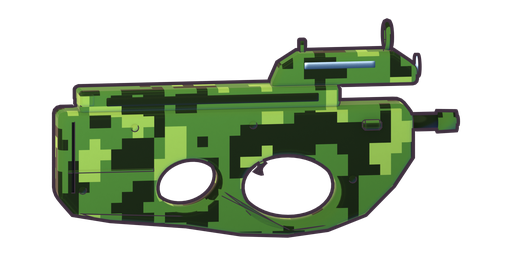
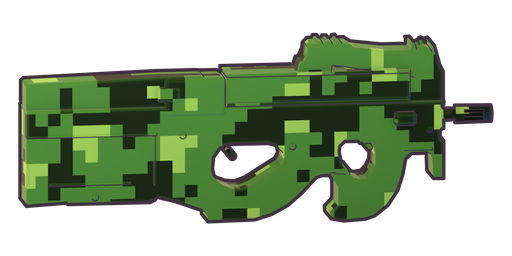
P90 léger fait maison : contours et dimensions relevés sur le modèle Sketchfab (gabarit seulement, non livré), finition marine usée dorée

diff --git a/art/blender/weapons_hd_p90.py b/art/blender/weapons_hd_p90.py
@@ -1,11 +1,13 @@
-"""FN P90 HD (Épique) d'après l'image de référence de Victor (carte d'arsenal « P90 · Épique ») :
-- bloc compact et anguleux, dessus plat et continu, face avant verticale, canon court qui sort haut ;
-- carcasse inférieure épaisse percée de deux ouvertures ovales (booléens) : trou du pouce à l'arrière,
-  grand pontet à l'avant, séparés par la poignée ;
-- chargeur intégré au dessus : bande d'acier sombre à fenêtre claire ;
-- viseur surélevé à l'avant du dessus, anneau de visée arrière ;
-- bleu marine peint, usure dorée sur les arêtes et éclats d'or (finition de l'Épique).
-Longueur 1,7 unité comme l'ancien modèle.
+"""FN P90 HD (Épique), modèle léger fait maison.
+
+Contours et dimensions relevés sur « P90 Submachine Gun Low Poly Game Ready » (JaNaZa_ZaIb, Sketchfab,
+licence Standard) : silhouette de profil projetée, retournée (canon vers +X) et mise à 1,7 unité,
+puis tracée et simplifiée (constantes ci-dessous). Le modèle Sketchfab ne sert QUE de gabarit : il
+n'est ni importé ni livré avec le jeu.
+Construction : carcasse = extrusion du contour extérieur, percée (booléens) du trou du pouce, du
+pontet et de la fenêtre du viseur ; chargeur, viseur, levier d'armement, détente, canon et
+cache-flamme rapportés. Finition d'après la carte d'arsenal de Victor : bleu marine peint, usure
+dorée sur les arêtes et éclats d'or.
 """
 from __future__ import annotations
 
@@ -18,66 +20,115 @@ import rdm_common as C  # noqa: E402
 import weapon_paint as WP  # noqa: E402
 from weapons_hd_kit import box, cyl_x, cyl_y, prism, rounded  # noqa: E402
 
-W = 0.19   # largeur de la carcasse
+W = 0.17   # largeur de la carcasse
+
+# Contours (x, z) en unités, sens horaire ; face avant coupée en x = 0.672 (le canon est rapporté).
+OUTER = [(0.214, 0.331), (0.229, 0.331), (0.233, 0.322), (0.245, 0.322), (0.248, 0.329), (0.264, 0.329),
+    (0.267, 0.321), (0.280, 0.321), (0.283, 0.329), (0.296, 0.331), (0.303, 0.321), (0.327, 0.321),
+    (0.351, 0.305), (0.462, 0.291), (0.553, 0.291), (0.554, 0.310), (0.551, 0.316), (0.568, 0.317),
+    (0.575, 0.291), (0.582, 0.298), (0.601, 0.306), (0.624, 0.296), (0.630, 0.284), (0.625, 0.309),
+    (0.633, 0.312), (0.640, 0.305), (0.659, 0.236), (0.672, 0.209), (0.672, 0.090), (0.666, 0.089),
+    (0.666, 0.077), (0.672, 0.076), (0.672, 0.003), (0.667, 0.003), (0.659, -0.007), (0.659, -0.039),
+    (0.672, -0.042), (0.672, -0.181), (0.634, -0.180), (0.631, -0.111), (0.623, -0.089),
+    (0.618, -0.086), (0.554, -0.087), (0.533, -0.106), (0.523, -0.162), (0.504, -0.220),
+    (0.468, -0.275), (0.420, -0.312), (0.387, -0.323), (0.308, -0.328), (0.261, -0.319),
+    (0.260, -0.301), (0.287, -0.271), (0.287, -0.205), (0.259, -0.158), (0.312, -0.156),
+    (0.273, -0.155), (0.275, -0.149), (0.258, -0.151), (0.256, -0.160), (0.225, -0.160),
+    (0.206, -0.167), (0.153, -0.223), (0.103, -0.266), (0.043, -0.298), (-0.018, -0.316),
+    (-0.189, -0.319), (-0.191, -0.297), (-0.201, -0.281), (-0.307, -0.242), (-0.373, -0.225),
+    (-0.381, -0.234), (-0.399, -0.243), (-0.701, -0.243), (-0.702, -0.238), (-0.711, -0.238),
+    (-0.851, -0.246), (-0.851, 0.190), (-0.841, 0.199), (-0.356, 0.213), (-0.208, 0.213),
+    (-0.202, 0.212), (-0.201, 0.180), (0.131, 0.181), (0.150, 0.250), (0.152, 0.254), (0.162, 0.256),
+    (0.175, 0.284), (0.178, 0.306), (0.195, 0.322), (0.210, 0.322), (0.213, 0.330)]
+THUMBHOLE = [(-0.111, -0.037), (0.033, -0.037), (0.059, -0.045), (0.084, -0.071), (0.089, -0.099),
+    (0.080, -0.119), (-0.032, -0.188), (-0.069, -0.201), (-0.103, -0.198), (-0.135, -0.186),
+    (-0.165, -0.157), (-0.172, -0.124), (-0.168, -0.083), (-0.144, -0.049), (-0.121, -0.038),
+    (-0.112, -0.038)]
+GUARD_HOLE = [(0.310, -0.037), (0.364, -0.037), (0.365, -0.045), (0.406, -0.045), (0.408, -0.048),
+    (0.420, -0.064), (0.423, -0.089), (0.422, -0.129), (0.409, -0.156), (0.392, -0.173),
+    (0.368, -0.177), (0.345, -0.171), (0.329, -0.156), (0.328, -0.140), (0.316, -0.139),
+    (0.300, -0.121), (0.290, -0.074), (0.293, -0.053), (0.309, -0.038)]
+SIGHT_WINDOW = [(0.265, 0.241), (0.296, 0.238), (0.567, 0.191), (0.567, 0.182), (0.255, 0.182), (0.266, 0.233),
+    (0.265, 0.240)]
 
 
-def _cut(target, name, x, z, rx, rz, rot=0.0):
-    """Perce une ouverture ovale de part en part (cylindre d'axe Y, booléen DIFFERENCE)."""
-    bm = C.bm_cyl(48, 1.0, 1.0, W * 3.0)
-    C.bm_xform(bm, rot=(math.pi / 2, 0, 0))
-    C.bm_xform(bm, scale=(rx, 1.0, rz))
-    C.bm_xform(bm, rot=(0, rot, 0), loc=(x, 0, z))
-    cutter = C.mesh_obj(name, bm, target.data.materials[0])
+def _cw(pts):
+    """Sens horaire (attendu par prism) : aire signée négative."""
+    a = sum(pts[i][0] * pts[(i + 1) % len(pts)][1] - pts[(i + 1) % len(pts)][0] * pts[i][1]
+            for i in range(len(pts)))
+    return list(pts) if a < 0 else list(reversed(pts))
+
+
+def _clip_z(pts, z0, keep_above):
+    """Polygone coupé par la droite z = z0 (Sutherland-Hodgman) : partie au-dessus ou en dessous."""
+    def inside(p):
+        return p[1] >= z0 if keep_above else p[1] <= z0
+    out = []
+    for i in range(len(pts)):
+        a, b = pts[i], pts[(i + 1) % len(pts)]
+        if inside(a):
+            out.append(a)
+        if inside(a) != inside(b):
+            t = (z0 - a[1]) / (b[1] - a[1])
+            out.append((a[0] + t * (b[0] - a[0]), z0))
+    return out
+
+
+def _cut(target, name, pts):
+    """Perce une ouverture (contour pts) de part en part : prisme et booléen DIFFERENCE."""
+    cutter = prism(name, _cw(pts), W * 3.0, target.data.materials[0])
     cutter.hide_render = True
     cutter.hide_viewport = True
     md = target.modifiers.new(name, "BOOLEAN")
     md.operation = "DIFFERENCE"
     md.solver = "EXACT"
     md.object = cutter
-    return cutter
 
 
 def smg_p90(m):
-    navy = WP.paint("p90_navy", "#1d2540", "#05070f", "#45547c", wear=0.75, edge="#e0ae4c", grain=0.09,
-                    grain_scale=90.0, alt="#c9973e", alt_scale=6.0, alt_cut=0.6)
-    navy_dark = WP.paint("p90_navy_dark", "#151a2c", "#040509", "#34405e", wear=0.55, edge="#d6a444", grain=0.08)
+    navy = WP.paint("p90_navy", "#1b2339", "#04060d", "#4a5e92", wear=0.7, edge="#d9a648", grain=0.1,
+                    grain_scale=90.0, alt="#c08f3a", alt_scale=5.0, alt_cut=0.64, rim=0.22)
+    navy_dark = WP.paint("p90_navy_dark", "#141a2c", "#04050a", "#3a4668", wear=0.5, edge="#d6a444", grain=0.08)
     gold = m["gold"]
-    # Carcasse : dessus plat, plaque de couche verticale, dessous qui descend vers le pontet puis remonte
-    # vers la face avant.
-    body = prism("body", [(-0.72, 0.25), (0.74, 0.25), (0.78, 0.21), (0.78, 0.02), (0.70, -0.10), (0.58, -0.22),
-                          (0.42, -0.28), (0.25, -0.30), (0.05, -0.29), (-0.18, -0.25), (-0.50, -0.22),
-                          (-0.66, -0.19), (-0.72, -0.12)], W, navy)
-    # Trou du pouce (arrière) et grand pontet (avant), séparés par la poignée.
-    _cut(body, "thumbhole", -0.17, -0.07, 0.13, 0.10, rot=-0.25)
-    _cut(body, "guardHole", 0.26, -0.10, 0.20, 0.14, rot=0.12)
-    rounded(body, 0.03, 3)
-    # Filets dorés et rainure de plaque arrière.
-    box("goldLine", (0.36, W * 1.01, 0.012), (-0.50, 0, 0.0), gold, bevel=0.0)
-    box("buttLine", (0.012, W * 1.01, 0.30), (-0.66, 0, 0.06), m["bore"], bevel=0.0)
-    # Détente au fond du pontet.
-    C.mesh_obj("trigger", C.bm_tube([(0.13, 0, 0.05), (0.15, 0, 0.0), (0.135, 0, -0.04)], [0.016] * 3, seg=8), gold)
-    # Chargeur intégré au dessus : bande sombre, fenêtre claire (corps translucide), embouts.
-    rounded(box("mag", (1.10, W * 0.9, 0.09), (-0.08, 0, 0.29), navy_dark, bevel=0.0), 0.015, 2)
-    box("magWindow", (0.90, W * 0.92, 0.04), (-0.07, 0, 0.29), m["steel"], bevel=0.006)
-    box("magLatch", (0.06, W * 0.95, 0.05), (-0.60, 0, 0.30), m["gold"], bevel=0.006)
-    # Viseur surélevé à l'avant : bloc, lentille, anneau de visée arrière, guidon.
-    rounded(prism("sight", [(0.18, 0.33), (0.80, 0.33), (0.80, 0.40), (0.70, 0.47), (0.30, 0.47), (0.22, 0.42)],
-                  W * 0.7, navy), 0.02, 3)
-    cyl_x("lens", 0.045, 0.045, 0.012, (0.805, 0, 0.40), m["glass"], seg=24)
-    box("sightWin", (0.30, W * 0.72, 0.03), (0.47, 0, 0.42), m["glass"], bevel=0.004)
-    C.mesh_obj("ring", C.bm_xform(C.bm_torus(32, 8, 0.05, 0.014), loc=(0.68, 0, 0.53), rot=(0, math.pi / 2, 0)),
+    # Deux étages : bas (crosse, ouvertures) pleine largeur, haut (chargeur, viseur) plus étroit -> marche.
+    split = 0.10
+    body = prism("body", _cw(_clip_z(OUTER, split + 0.004, False)), W, navy)
+    for name, hole in (("thumbhole", THUMBHOLE), ("guardHole", GUARD_HOLE)):
+        _cut(body, name, hole)
+    rounded(body, 0.014, 2, angle=35.0)
+    top = prism("top", _cw(_clip_z(OUTER, split, True)), W * 0.84, navy)
+    _cut(top, "sightWindow", SIGHT_WINDOW)
+    rounded(top, 0.012, 2, angle=35.0)
+    # Panneaux de la crosse (rainures), plaque de couche.
+    box("buttSeam", (0.47, W * 1.01, 0.008), (-0.61, 0, 0.006), navy_dark, bevel=0.0)
+    box("stockSeam", (0.008, W * 1.01, 0.18), (-0.385, 0, -0.09), navy_dark, bevel=0.0)
+    # Chargeur translucide dans son canal (bande gris acier), loquet arrière, fond de chargeur.
+    mag_m = WP.paint("p90_mag", "#6a7284", "#1c2030", "#b6c0d4", metal=0.6, gloss=0.3, wear=0.3, grain=0.04)
+    rounded(box("mag", (0.67, W * 1.06, 0.10), (0.215, 0, 0.162), mag_m, bevel=0.0), 0.008, 2)
+    rounded(box("magRear", (0.22, W * 1.05, 0.14), (-0.235, 0, 0.14), navy_dark, bevel=0.0), 0.01, 2)
+    box("magLatch", (0.08, W * 1.08, 0.055), (-0.33, 0, 0.15), gold, bevel=0.006)
+    box("magTop", (0.67, W * 1.07, 0.012), (0.215, 0, 0.216), navy_dark, bevel=0.0)
+    box("magBottom", (0.67, W * 1.07, 0.012), (0.215, 0, 0.108), navy_dark, bevel=0.0)
+    # Viseur : capot, fenêtre vitrée, rail crénelé, anneau de hausse à l'avant.
+    box("sightGlass", (0.24, W * 0.5, 0.05), (0.40, 0, 0.255), m["glass"], bevel=0.004)
+    C.mesh_obj("ring", C.bm_xform(C.bm_torus(32, 8, 0.03, 0.01), loc=(0.60, 0, 0.285), rot=(0, math.pi / 2, 0)),
                navy_dark)
-    box("ringPost", (0.03, 0.03, 0.05), (0.68, 0, 0.485), navy_dark, bevel=0.004)
-    box("frontSight", (0.025, 0.03, 0.05), (0.32, 0, 0.495), navy_dark, bevel=0.004)
-    # Levier d'armement doré (côté visible) et vis dorées.
-    rounded(box("charge", (0.08, 0.04, 0.04), (0.60, -W * 0.56, 0.17), gold), 0.01, 2)
-    for (x, z) in ((-0.40, 0.18), (0.10, 0.18), (0.52, -0.06), (-0.62, -0.08)):
-        cyl_y("screw", 0.016, W * 1.03, (x, 0, z), gold, seg=12)
-    # Canon court qui sort haut de la face avant, cache-flamme.
-    cyl_x("barrel", 0.034, 0.034, 0.12, (0.84, 0, 0.16), m["steel"], seg=20)
-    cyl_x("flash", 0.045, 0.042, 0.08, (0.93, 0, 0.16), navy_dark, seg=20)
-    cyl_x("muzzleBore", 0.018, 0.018, 0.01, (0.972, 0, 0.16), m["bore"], seg=12)
-    return {"grip": (0.02, 0, -0.12), "muzzle": (0.975, 0, 0.16)}
+    # Levier d'armement (avant, côté visible), vis et filets dorés, détente.
+    rounded(box("charge", (0.08, 0.04, 0.05), (0.53, -W * 0.56, 0.045), navy_dark), 0.01, 2)
+    cyl_y("chargeKnob", 0.016, W * 1.2, (0.53, 0, 0.045), gold, seg=12)
+    for (x, z) in ((-0.28, 0.0), (-0.10, -0.08), (0.12, -0.05), (0.40, -0.06), (0.62, 0.0), (-0.60, -0.22)):
+        cyl_y("screw", 0.012, W * 1.03, (x, 0, z), gold, seg=12)
+    box("goldLine", (0.30, W * 1.01, 0.01), (-0.62, 0, -0.17), gold, bevel=0.0)
+    box("goldFront", (0.10, W * 1.01, 0.01), (0.58, 0, -0.07), gold, bevel=0.0)
+    C.mesh_obj("trigger", C.bm_tube([(0.235, 0, -0.06), (0.25, 0, -0.10), (0.24, 0, -0.14)], [0.012] * 3, seg=8),
+               gold)
+    # Canon et cache-flamme (rapportés devant la face avant).
+    cyl_x("barrel", 0.022, 0.022, 0.07, (0.705, 0, 0.04), m["steel"], seg=20)
+    cyl_x("flash", 0.032, 0.03, 0.13, (0.79, 0, 0.04), navy_dark, seg=20)
+    for k in range(3):
+        box("flashSlot", (0.07, 0.01, 0.008), (0.79, -0.031, 0.025 + k * 0.015), m["bore"], bevel=0.0)
+    cyl_x("muzzleBore", 0.013, 0.013, 0.01, (0.853, 0, 0.04), m["bore"], seg=12)
+    return {"grip": (0.19, 0, -0.10), "muzzle": (0.855, 0, 0.04)}
 
 
 WEAPONS = {"smg_p90": smg_p90}
